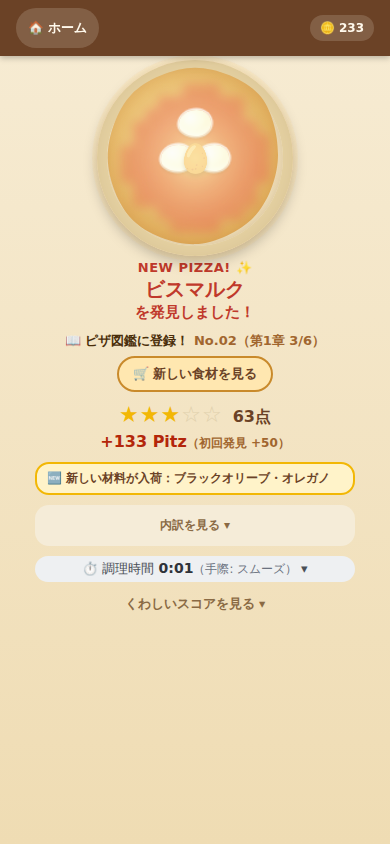
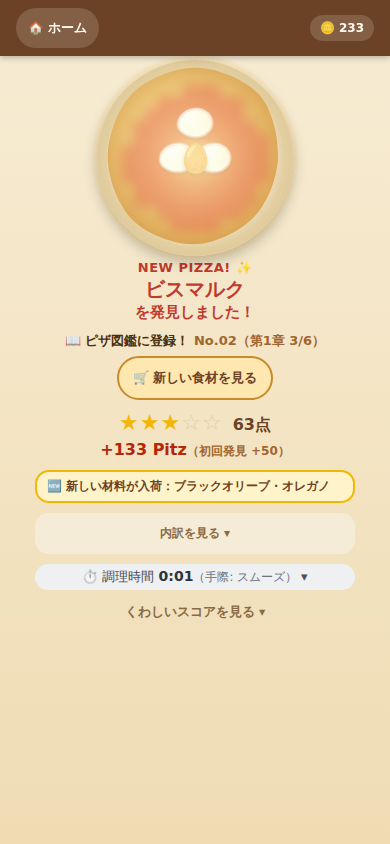
UX: keep the sole NEW PIZZA CTA at the 44px minimum touch target (Codex P2)
With the bottom CTA bar gone, .dex-registration-row__cta is the only way forward on a NEW PIZZA result;
min-height 36px -> 44px (PIZZA_GAME_UI_SPEC §5). e2e asserts >= 44px; S5 after screenshots refreshed.

Claude-Session: https://claude.ai/code/session_01JHquWBKJVv28gvrLxCHSvg

Changed region(s): [[0.0923, 0.4005, 0.9231, 0.7393]]

diff --git a/e2e/progression2-discovery-ladder.spec.ts b/e2e/progression2-discovery-ladder.spec.ts
@@ -118,6 +118,8 @@ test.describe("Discovery Ladder Shop (I4b)", () => {
     await expect(page.locator(".material-unlock-notice button")).toHaveCount(0);
     await expect(page.getByRole("button", { name: /ショップへ/ })).toHaveCount(0);
     await expectFullyVisible(page, ".dex-registration-row__cta--primary", "RESULT: 新しい食材を見る CTA");
+    // The sole way forward keeps the 44px minimum touch target (PIZZA_GAME_UI_SPEC §5).
+    expect((await page.locator(".dex-registration-row__cta--primary").boundingBox())!.height).toBeGreaterThanOrEqual(44);
     await expect(page.locator(".result-panel__actions")).toHaveCount(0);
     await expectNoHorizontalOverflow(page, "RESULT with NEW MATERIAL");
     const pitzAfterMargherita = (await readSave(page)).pitzBalance;

diff --git a/src/App.css b/src/App.css
@@ -5012,7 +5012,9 @@
 }
 
 .dex-registration-row__cta {
-  min-height: 36px;
+  /* #358 extraction: on a NEW PIZZA result this is the only way forward (the bottom CTA bar is gone), so it keeps the
+     documented 44px minimum touch target (PIZZA_GAME_UI_SPEC §5). */
+  min-height: 44px;
   padding: 6px 14px;
   border: 2px solid #d9b876;
   border-radius: 999px;
